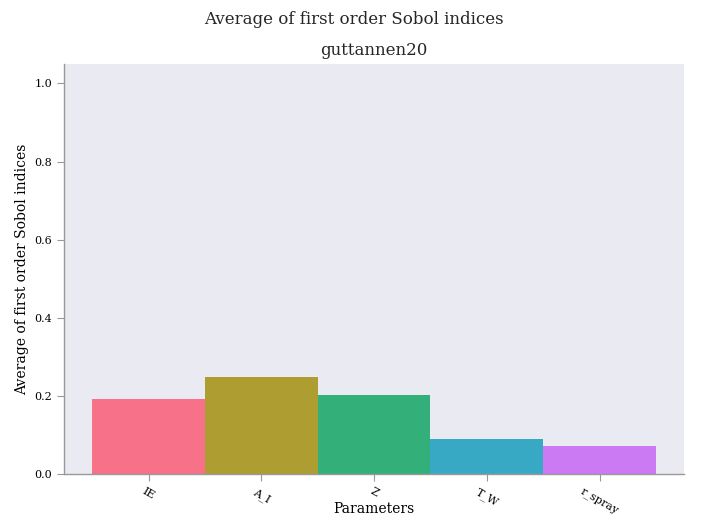
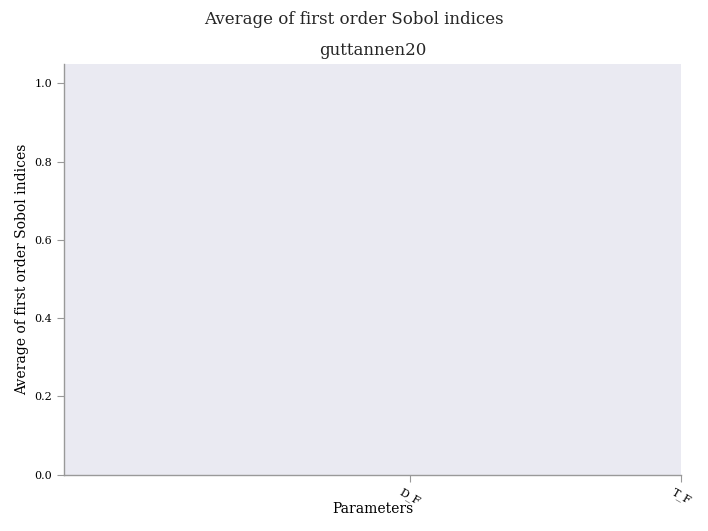
uqfull error correct

diff --git a/src/utils/uq_plot_full.py b/src/utils/uq_plot_full.py
@@ -22,7 +22,7 @@ from src.models.methods.metadata import get_parameter_metadata
 
 if __name__ == "__main__":
 
-    locations = ['guttannen21','guttannen20']
+    locations = ['guttannen20','guttannen21']
 
     blue = "#0a4a97"
     red = "#e23028"
@@ -59,7 +59,8 @@ if __name__ == "__main__":
         evaluations = []
 
         data = un.Data()
-        filename1 = FOLDER['sim']+ "full.h5"
+        filename1 = FOLDER['sim']+ "SE_full.h5"
+        # filename1 = FOLDER['sim']+ "full.h5"
         # filename1 = FOLDER['sim']+ "efficiency.h5"
         data.load(filename1)
         print(data)
